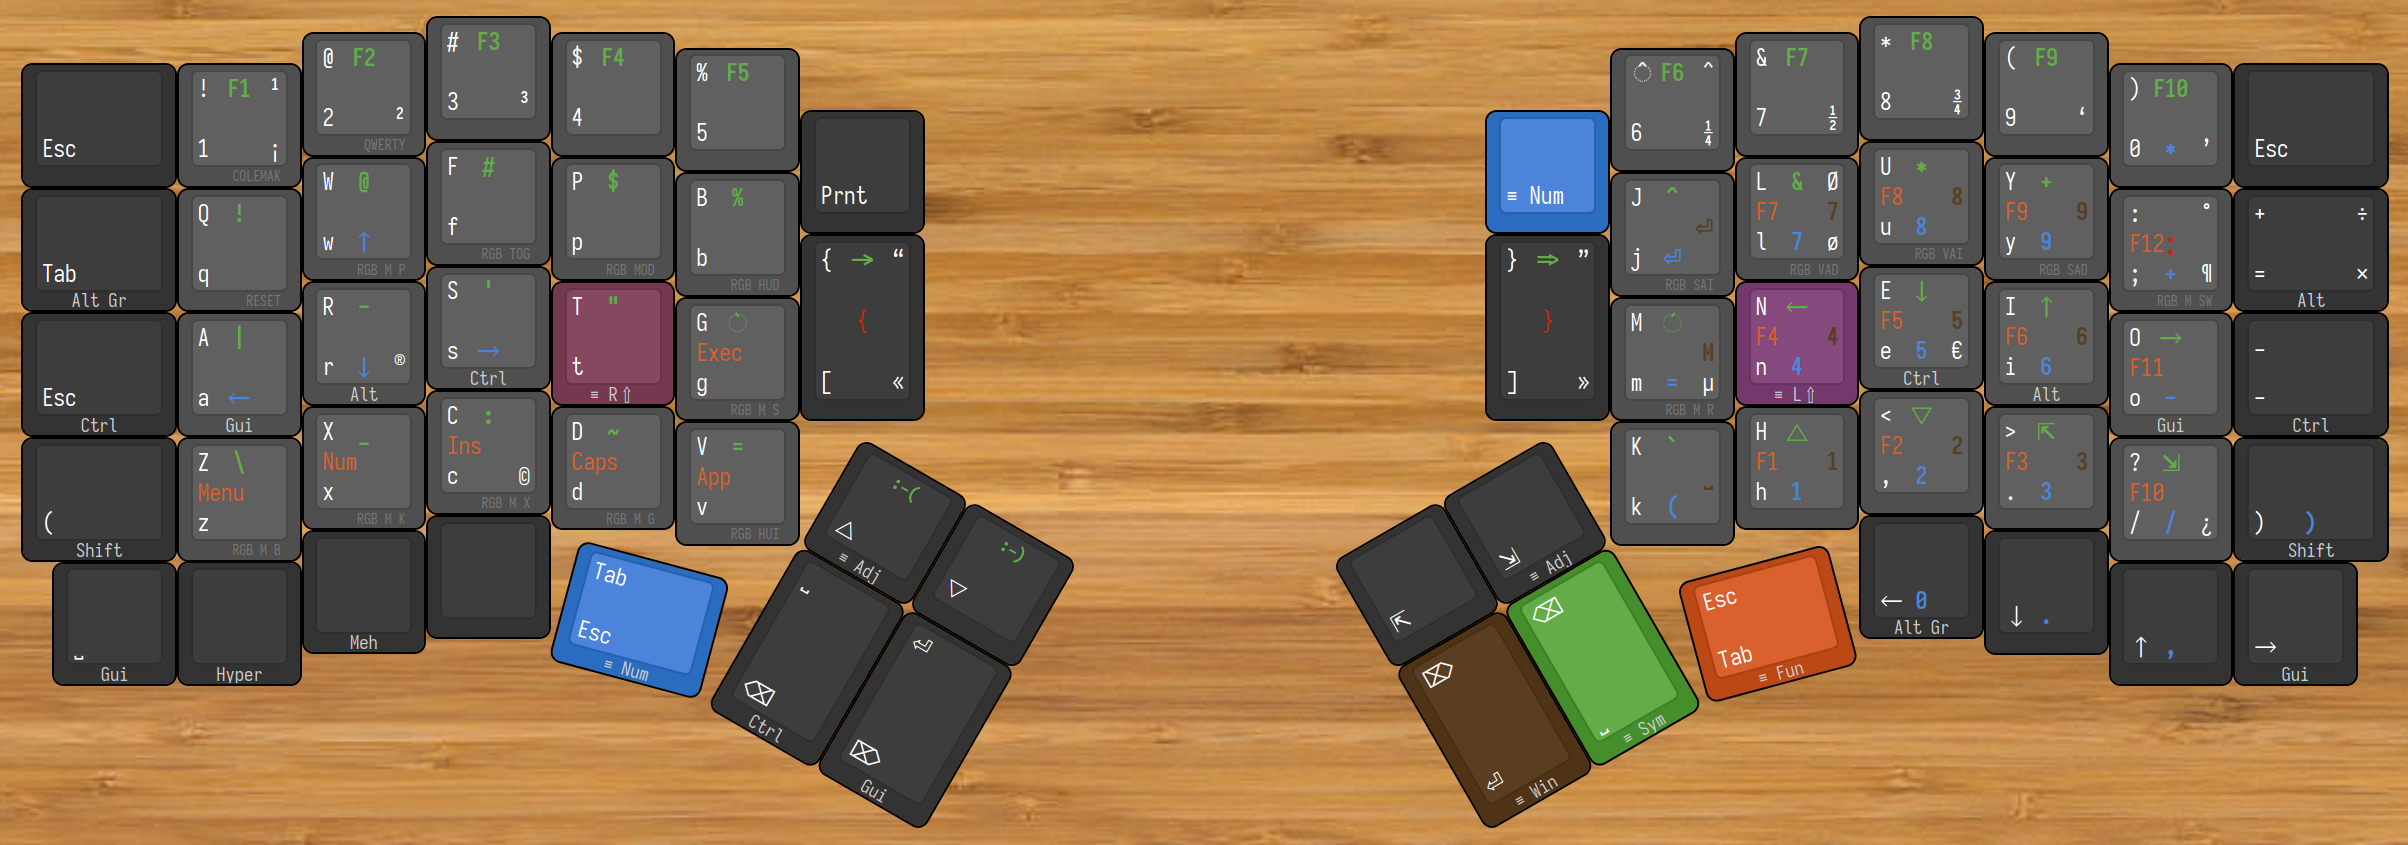
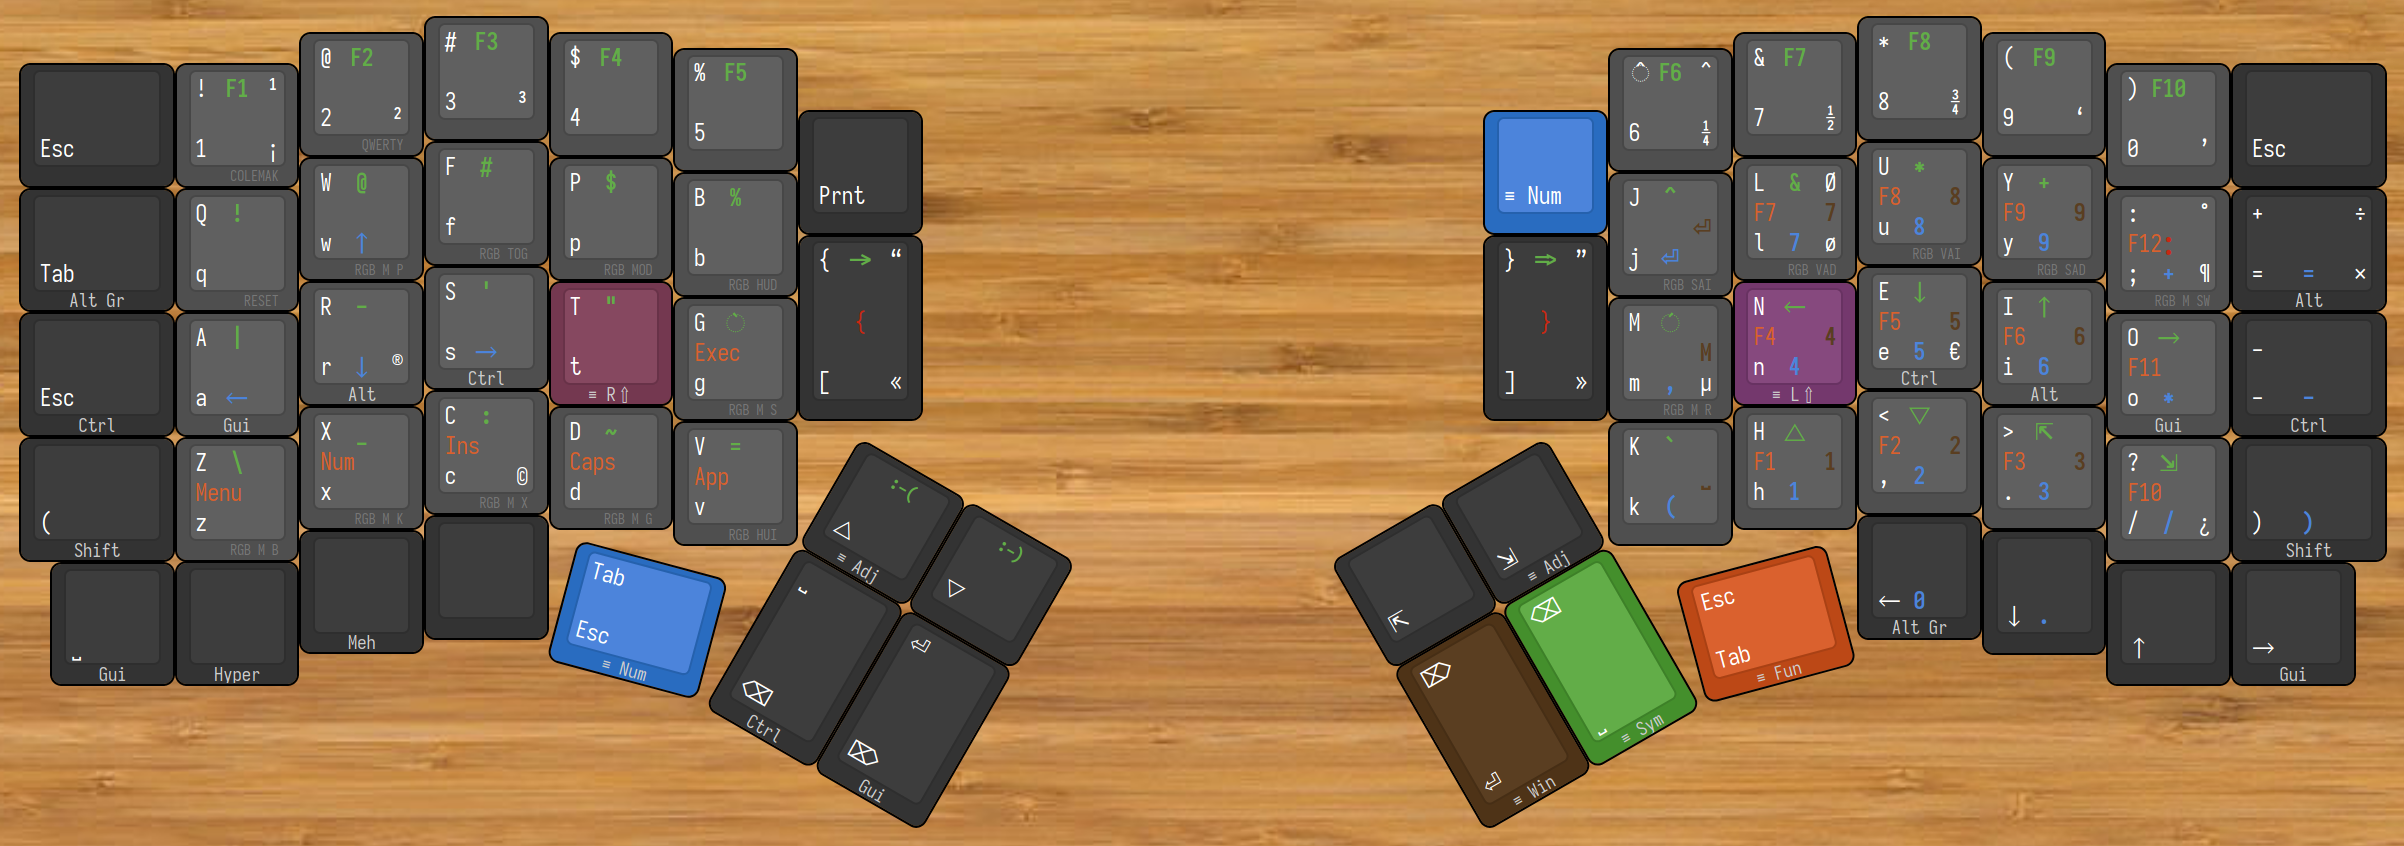
Updated layout: minor improvement on number layer.

diff --git a/keymap.c b/keymap.c
@@ -260,22 +260,22 @@ const uint16_t PROGMEM keymaps[][MATRIX_ROWS][MATRIX_COLS] = {
     //├────────┼────────┼────────┼────────┼────────┼────────┼────────┼────────┐       ┌────────┼────────┼────────┼────────┼────────┼────────┼────────┼────────┤
        _______ ,KC_BSLS ,KC_UNDS ,KC_COLN ,ASC_TILD,KC_EQL  ,ASC_SAD ,ASC_HAP ,        _______ ,_______ ,ASC_BKT ,KC_PGUP ,KC_PGDN ,KC_HOME ,KC_END  ,_______ ,
     //├────────┼────────┼────────┼────────┼────┬───┴────┬───┼────────┼────────┤       ├────────┼────────┼───┬────┴───┬────┼────────┼────────┼────────┼────────┤
-       _______ ,_______ ,_______ ,_______ ,     _______ ,    _______ ,_______ ,        _______ ,_______ ,    _______ ,     _______ ,_______ ,_______ ,_______
+       _______ ,_______ ,_______ ,XXXXXXX ,     _______ ,    _______ ,_______ ,        _______ ,_______ ,    _______ ,     _______ ,_______ ,_______ ,_______
     //└────────┴────────┴────────┴────────┘    └────────┘   └────────┴────────┘       └────────┴────────┘   └────────┘    └────────┴────────┴────────┴────────┘
   ),
 
   // Numeric keypad layer
   [_NUMB] = LAYOUT(
     //┌────────┬────────┬────────┬────────┬────────┬────────┐                                           ┌────────┬────────┬────────┬────────┬────────┬────────┐
-       _______ ,_______ ,_______ ,_______ ,_______ ,_______ ,                                            XXXXXXX ,XXXXXXX ,XXXXXXX ,XXXXXXX ,KC_PAST ,_______ ,
+       _______ ,XXXXXXX ,XXXXXXX ,XXXXXXX ,XXXXXXX ,XXXXXXX ,                                            XXXXXXX ,XXXXXXX ,XXXXXXX ,XXXXXXX ,XXXXXXX ,_______ ,
     //├────────┼────────┼────────┼────────┼────────┼────────┼────────┐                         ┌────────┼────────┼────────┼────────┼────────┼────────┼────────┤
-       _______ ,_______ ,KC_UP   ,_______ ,_______ ,_______ ,_______ ,                          KC_NUMB ,KC_PENT ,KC_KP_7 ,KC_KP_8 ,KC_KP_9 ,KC_PPLS ,_______ ,
+       _______ ,XXXXXXX ,KC_UP   ,XXXXXXX ,XXXXXXX ,XXXXXXX ,_______ ,                          KC_NUMB ,KC_PENT ,KC_KP_7 ,KC_KP_8 ,KC_KP_9 ,KC_PPLS ,KC_PEQL ,
     //├────────┼────────┼────────┼────────┼────────┼────────┼────────┤                         ├────────┼────────┼────────┼────────┼────────┼────────┼────────┤
-       _______ ,KC_LEFT ,KC_DOWN ,KC_RGHT ,_______ ,_______ ,_______ ,                          _______ ,KC_EQL  ,KC_KP_4 ,KC_KP_5 ,KC_KP_6 ,KC_PMNS ,_______ ,
+       _______ ,KC_LEFT ,KC_DOWN ,KC_RGHT ,XXXXXXX ,XXXXXXX ,_______ ,                          XXXXXXX ,KC_COMM ,KC_KP_4 ,KC_KP_5 ,KC_KP_6 ,KC_PAST ,KC_PMNS ,
     //├────────┼────────┼────────┼────────┼────────┼────────┼────────┼────────┐       ┌────────┼────────┼────────┼────────┼────────┼────────┼────────┼────────┤
-       _______ ,_______ ,_______ ,_______ ,_______ ,_______ ,_______ ,_______ ,        _______ ,_______ ,S(KC_9) ,KC_KP_1 ,KC_KP_2 ,KC_KP_3 ,KC_PSLS ,S(KC_0) ,
+       _______ ,XXXXXXX ,XXXXXXX ,XXXXXXX ,XXXXXXX ,XXXXXXX ,_______ ,_______ ,        _______ ,_______ ,S(KC_9) ,KC_KP_1 ,KC_KP_2 ,KC_KP_3 ,KC_PSLS ,S(KC_0) ,
     //├────────┼────────┼────────┼────────┼────┬───┴────┬───┼────────┼────────┤       ├────────┼────────┼───┬────┴───┬────┼────────┼────────┼────────┼────────┤
-       _______ ,_______ ,_______ ,_______ ,     _______ ,    _______ ,_______ ,        _______ ,_______ ,    XXXXXXX ,     KC_KP_0 ,KC_PDOT ,KC_PCMM ,XXXXXXX
+       _______ ,_______ ,_______ ,XXXXXXX ,     _______ ,    _______ ,_______ ,        _______ ,_______ ,    _______ ,     KC_KP_0 ,KC_PDOT ,XXXXXXX ,XXXXXXX
     //└────────┴────────┴────────┴────────┘    └────────┘   └────────┴────────┘       └────────┴────────┘   └────────┘    └────────┴────────┴────────┴────────┘
   ),
 
@@ -284,13 +284,13 @@ const uint16_t PROGMEM keymaps[][MATRIX_ROWS][MATRIX_COLS] = {
     //┌────────┬────────┬────────┬────────┬────────┬────────┐                                           ┌────────┬────────┬────────┬────────┬────────┬────────┐
        _______ ,_______ ,_______ ,_______ ,_______ ,_______ ,                                            _______ ,_______ ,_______ ,_______ ,_______ ,_______ ,
     //├────────┼────────┼────────┼────────┼────────┼────────┼────────┐                         ┌────────┼────────┼────────┼────────┼────────┼────────┼────────┤
-       _______ ,_______ ,_______ ,_______ ,_______ ,_______ ,_______ ,                          _______ ,_______ ,KC_F7   ,KC_F8   ,KC_F9   ,KC_F12  ,_______ ,
+       _______ ,XXXXXXX ,XXXXXXX ,XXXXXXX ,XXXXXXX ,XXXXXXX ,_______ ,                          _______ ,XXXXXXX ,KC_F7   ,KC_F8   ,KC_F9   ,KC_F12  ,_______ ,
     //├────────┼────────┼────────┼────────┼────────┼────────┼────────┤                         ├────────┼────────┼────────┼────────┼────────┼────────┼────────┤
-       _______ ,_______ ,_______ ,_______ ,_______ ,KC_EXEC ,_______ ,                          _______ ,_______ ,KC_F4   ,KC_F5   ,KC_F6   ,KC_F11  ,_______ ,
+       _______ ,_______ ,_______ ,_______ ,_______ ,KC_EXEC ,XXXXXXX ,                          XXXXXXX ,XXXXXXX ,KC_F4   ,KC_F5   ,KC_F6   ,KC_F11  ,_______ ,
     //├────────┼────────┼────────┼────────┼────────┼────────┼────────┼────────┐       ┌────────┼────────┼────────┼────────┼────────┼────────┼────────┼────────┤
-       _______ ,KC_MENU ,KC_NLCK ,KC_INS  ,KC_CAPS ,KC_APP  ,_______ ,_______ ,        _______ ,_______ ,_______ ,KC_F1   ,KC_F2   ,KC_F3   ,KC_F10  ,_______ ,
+       _______ ,KC_MENU ,KC_NLCK ,KC_INS  ,KC_CAPS ,KC_APP  ,_______ ,_______ ,        _______ ,_______ ,XXXXXXX ,KC_F1   ,KC_F2   ,KC_F3   ,KC_F10  ,_______ ,
     //├────────┼────────┼────────┼────────┼────┬───┴────┬───┼────────┼────────┤       ├────────┼────────┼───┬────┴───┬────┼────────┼────────┼────────┼────────┤
-       _______ ,_______ ,_______ ,_______ ,     _______ ,    _______ ,_______ ,        _______ ,_______ ,    _______ ,     _______ ,_______ ,_______ ,_______
+       _______ ,_______ ,_______ ,XXXXXXX ,     _______ ,    _______ ,_______ ,        _______ ,_______ ,    _______ ,     _______ ,XXXXXXX ,XXXXXXX ,_______
     //└────────┴────────┴────────┴────────┘    └────────┘   └────────┴────────┘       └────────┴────────┘   └────────┘    └────────┴────────┴────────┴────────┘
   ),
 
@@ -305,7 +305,7 @@ const uint16_t PROGMEM keymaps[][MATRIX_ROWS][MATRIX_COLS] = {
     //├────────┼────────┼────────┼────────┼────────┼────────┼────────┼────────┐       ┌────────┼────────┼────────┼────────┼────────┼────────┼────────┼────────┤
        _______ ,S(KC_Z) ,S(KC_X) ,S(KC_C) ,S(KC_D) ,S(KC_V) ,_______ ,_______ ,        _______ ,_______ ,_______ ,_______ ,_______ ,_______ ,_______ ,_______ ,
     //├────────┼────────┼────────┼────────┼────┬───┴────┬───┼────────┼────────┤       ├────────┼────────┼───┬────┴───┬────┼────────┼────────┼────────┼────────┤
-       _______ ,_______ ,_______ ,_______ ,     _______ ,    _______ ,_______ ,        KC_DEL  ,KC_BSPC ,    KC_ESC  ,     _______ ,_______ ,_______ ,_______
+       _______ ,_______ ,_______ ,XXXXXXX ,     _______ ,    _______ ,_______ ,        KC_DEL  ,KC_BSPC ,    KC_ESC  ,     _______ ,_______ ,_______ ,_______
     //└────────┴────────┴────────┴────────┘    └────────┘   └────────┴────────┘       └────────┴────────┘   └────────┘    └────────┴────────┴────────┴────────┘
   ),
 
@@ -320,7 +320,7 @@ const uint16_t PROGMEM keymaps[][MATRIX_ROWS][MATRIX_COLS] = {
     //├────────┼────────┼────────┼────────┼────────┼────────┼────────┼────────┐       ┌────────┼────────┼────────┼────────┼────────┼────────┼────────┼────────┤
        _______ ,_______ ,_______ ,_______ ,_______ ,_______ ,_______ ,_______ ,        _______ ,_______ ,S(KC_K) ,S(KC_H) ,KC_LABK ,KC_RABK ,KC_QUES ,_______ ,
     //├────────┼────────┼────────┼────────┼────┬───┴────┬───┼────────┼────────┤       ├────────┼────────┼───┬────┴───┬────┼────────┼────────┼────────┼────────┤
-       _______ ,_______ ,_______ ,_______ ,     KC_TAB  ,    KC_SPC  ,KC_ENT  ,        _______ ,_______ ,    _______ ,     _______ ,_______ ,_______ ,_______
+       _______ ,_______ ,_______ ,XXXXXXX ,     KC_TAB  ,    KC_SPC  ,KC_ENT  ,        _______ ,_______ ,    _______ ,     _______ ,_______ ,_______ ,_______
     //└────────┴────────┴────────┴────────┘    └────────┘   └────────┴────────┘       └────────┴────────┘   └────────┘    └────────┴────────┴────────┴────────┘
   ),
 
@@ -335,7 +335,7 @@ const uint16_t PROGMEM keymaps[][MATRIX_ROWS][MATRIX_COLS] = {
     //├────────┼────────┼────────┼────────┼────────┼────────┼────────┼────────┐       ┌────────┼────────┼────────┼────────┼────────┼────────┼────────┼────────┤
        _______ ,_______ ,_______ ,_______ ,_______ ,_______ ,_______ ,_______ ,        _______ ,_______ ,LGUI(KC_SPC) ,LGUI(KC_1), LGUI(KC_2), LGUI(KC_3),_______ ,_______ ,
     //├────────┼────────┼────────┼────────┼────┬───┴────┬───┼────────┼────────┤       ├────────┼────────┼───┬────┴───┬────┼────────┼────────┼────────┼────────┤
-       _______ ,_______ ,_______ ,_______ ,     _______ ,    _______ ,_______ ,        _______ ,_______ ,    _______ ,     _______ ,_______ ,_______ ,_______
+       _______ ,_______ ,_______ ,XXXXXXX ,     _______ ,    _______ ,_______ ,        _______ ,_______ ,    _______ ,     _______ ,_______ ,_______ ,_______
     //└────────┴────────┴────────┴────────┘    └────────┘   └────────┴────────┘       └────────┴────────┘   └────────┘    └────────┴────────┴────────┴────────┘
   ),
 
